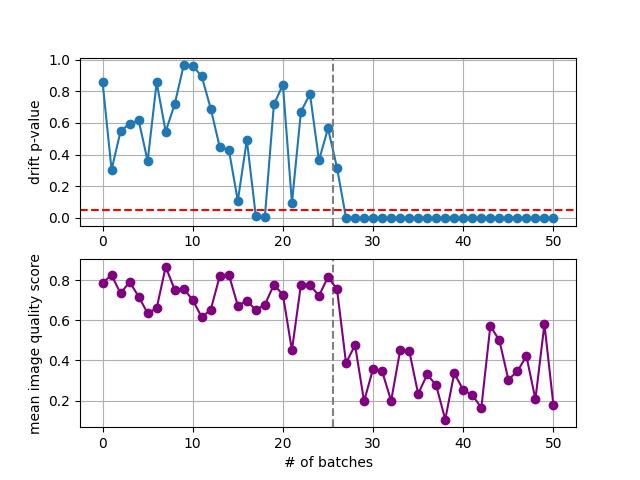
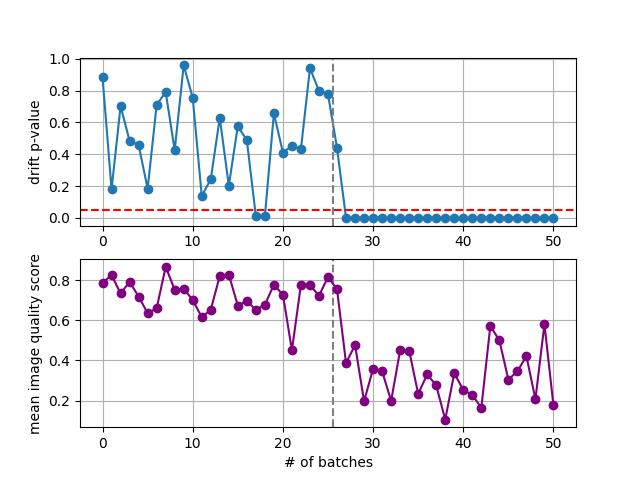
small cleanup

diff --git a/test_arniqa_odld.py b/test_arniqa_odld.py
@@ -82,7 +82,7 @@ def init_dataloaders():
 
     train_loader = DataLoader(train_dataset, batch_size=global_batch_size, shuffle=True)
     test_loader = DataLoader(test_dataset, batch_size=global_batch_size, shuffle=False, drop_last=True)
-    ddetector_loader = DataLoader(drift_dataset, batch_size=global_batch_size, shuffle=False, drop_last=True)
+    ddetector_loader = DataLoader(drift_dataset, batch_size=global_batch_size, shuffle=True, drop_last=True)
 
     return train_loader, test_loader, ddetector_loader
 
@@ -170,7 +170,6 @@ if __name__ == "__main__":
 
 
     with torch.no_grad():
-        im_passed = []; idx=0
         for bimages, images, labels in tqdm(test, desc="Test", position=0):
             #ddetect.fit(labels.shape[0])
             outputs = model_odld(images.to(device))
@@ -185,14 +184,16 @@ if __name__ == "__main__":
             # preds = preds.unsqueeze(1).to(dtype=torch.long)
             dd_in = feat_ext(images.to(device)).reshape(images.shape[0], -1)
             
-            pv = ddetect.forward(dd_in)
-            all_drift_p_values.extend([pv.item()])
+            pv = ddetect.forward(dd_in).item()
 
-            all_iqscore_values.extend([arniqa_outputs.mean().item()])
+            meaniq = arniqa_outputs.mean().item()
 
-            idx+=images.shape[0]; im_passed += [idx]
-            for lb in labels:
-                class_answers += [lb.numpy()]
+            all_drift_p_values.extend([pv])
+            all_iqscore_values.extend([meaniq])
+
+
+            logger.info(("drift p-val:",pv , "mean_iq:", meaniq))
+
 
 # logger.info classification report
 logger.info(classification_report(
